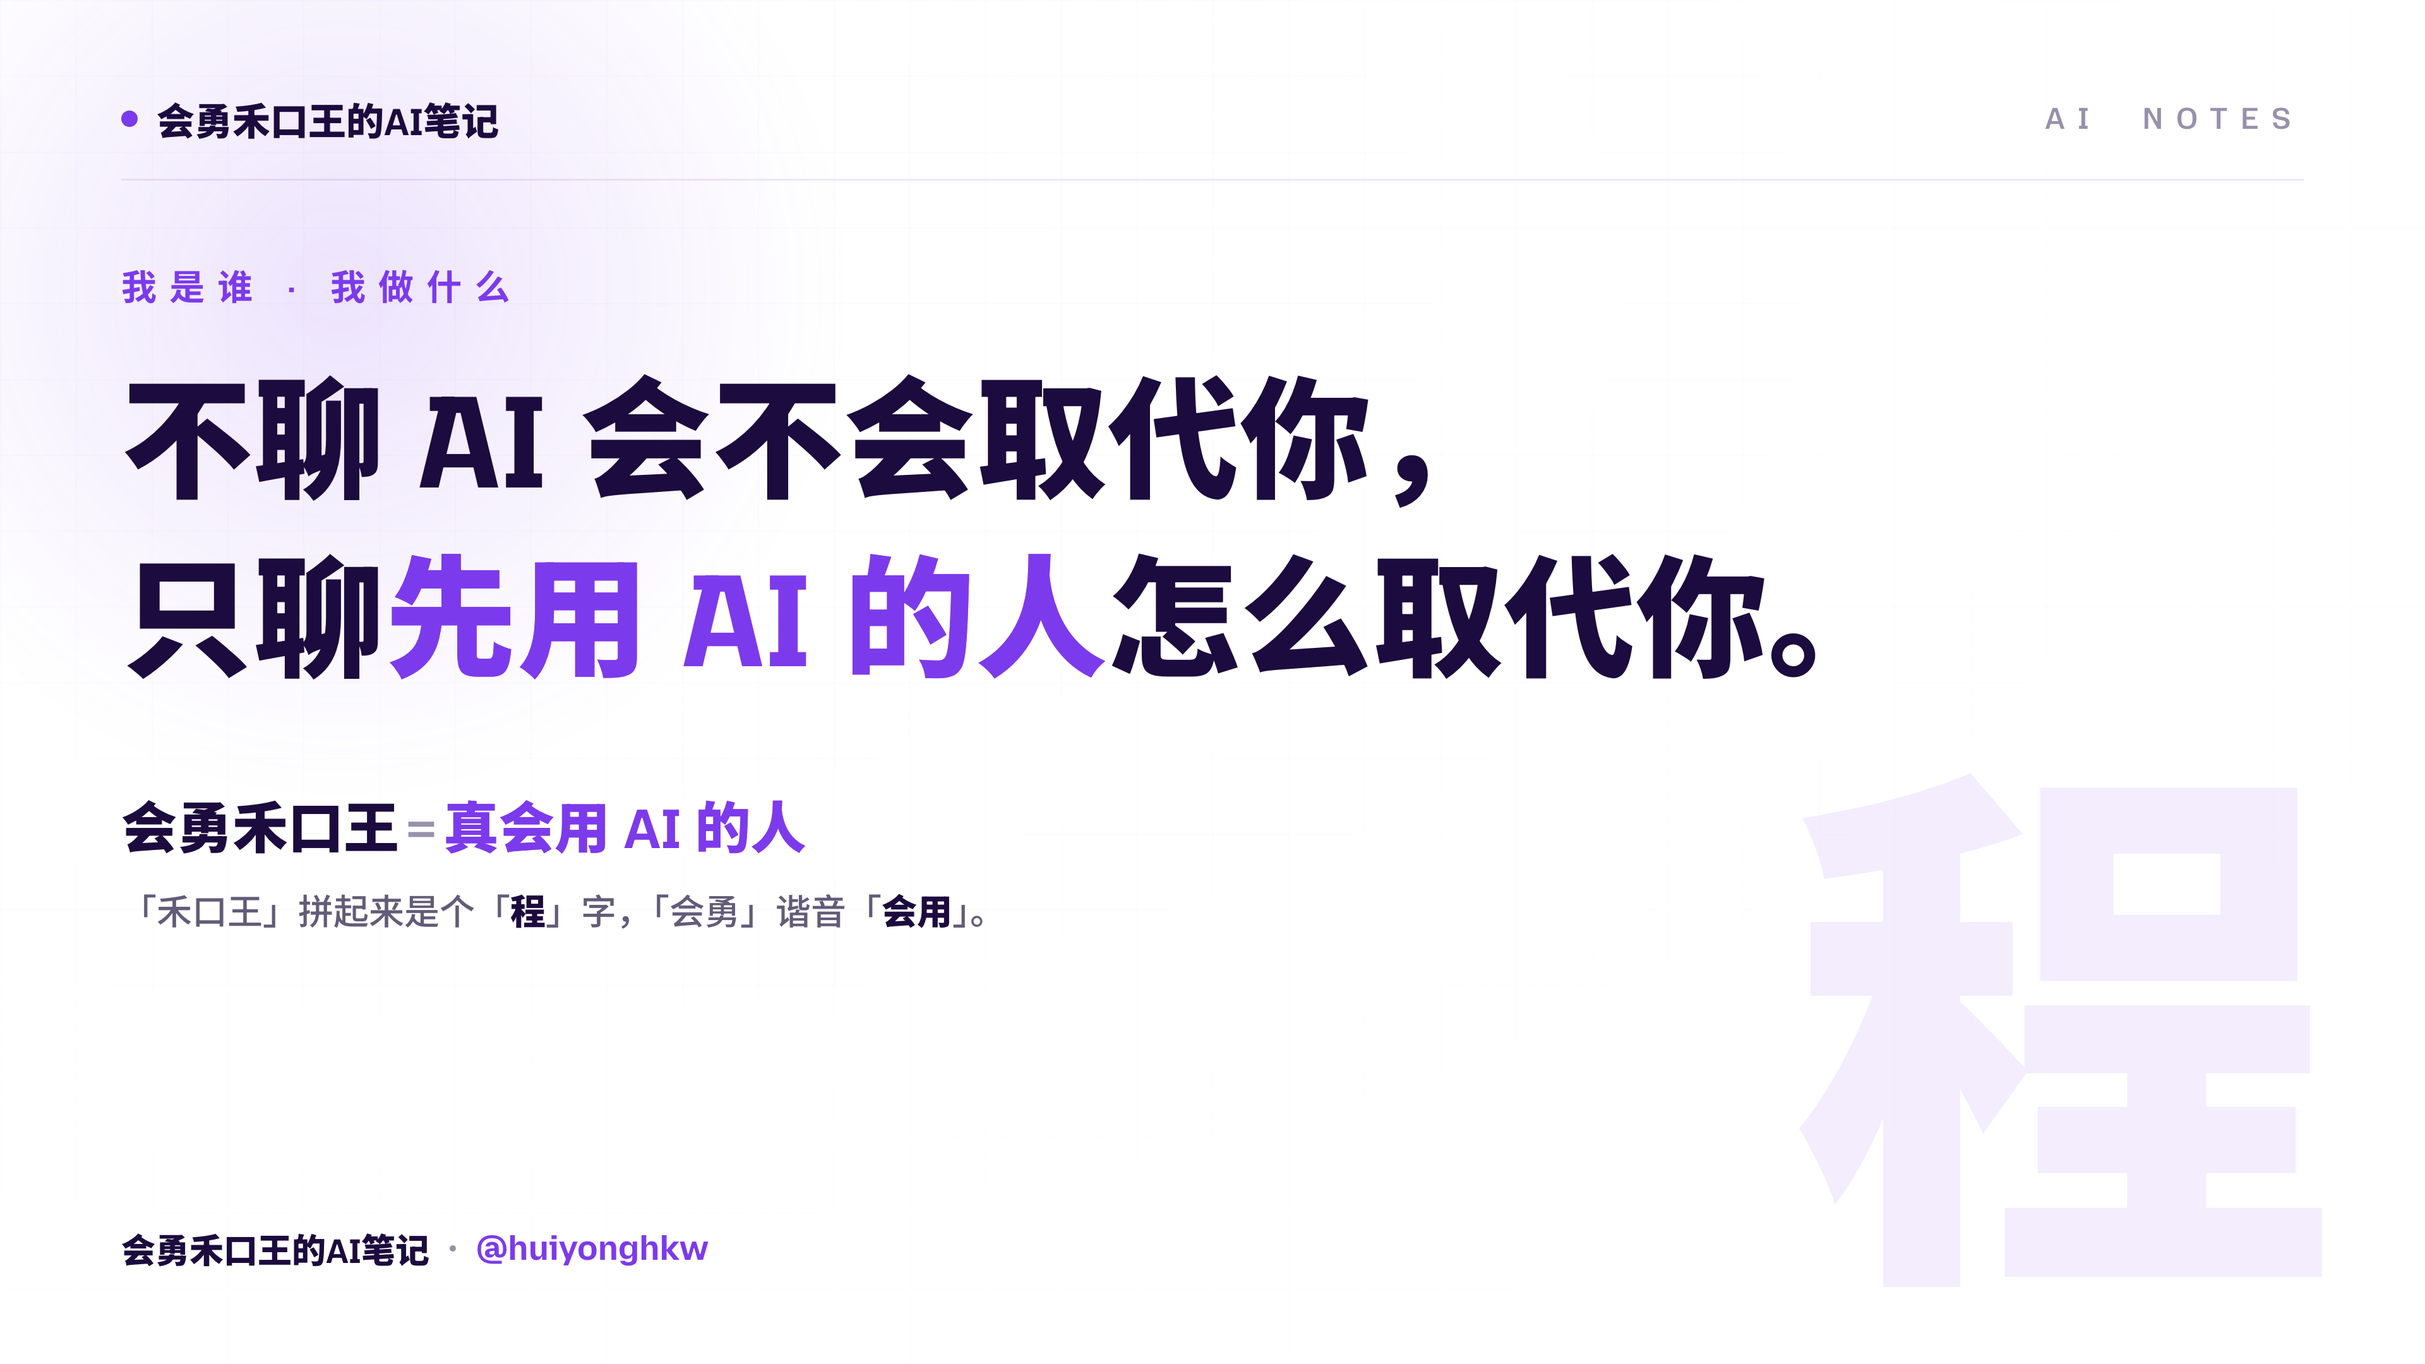
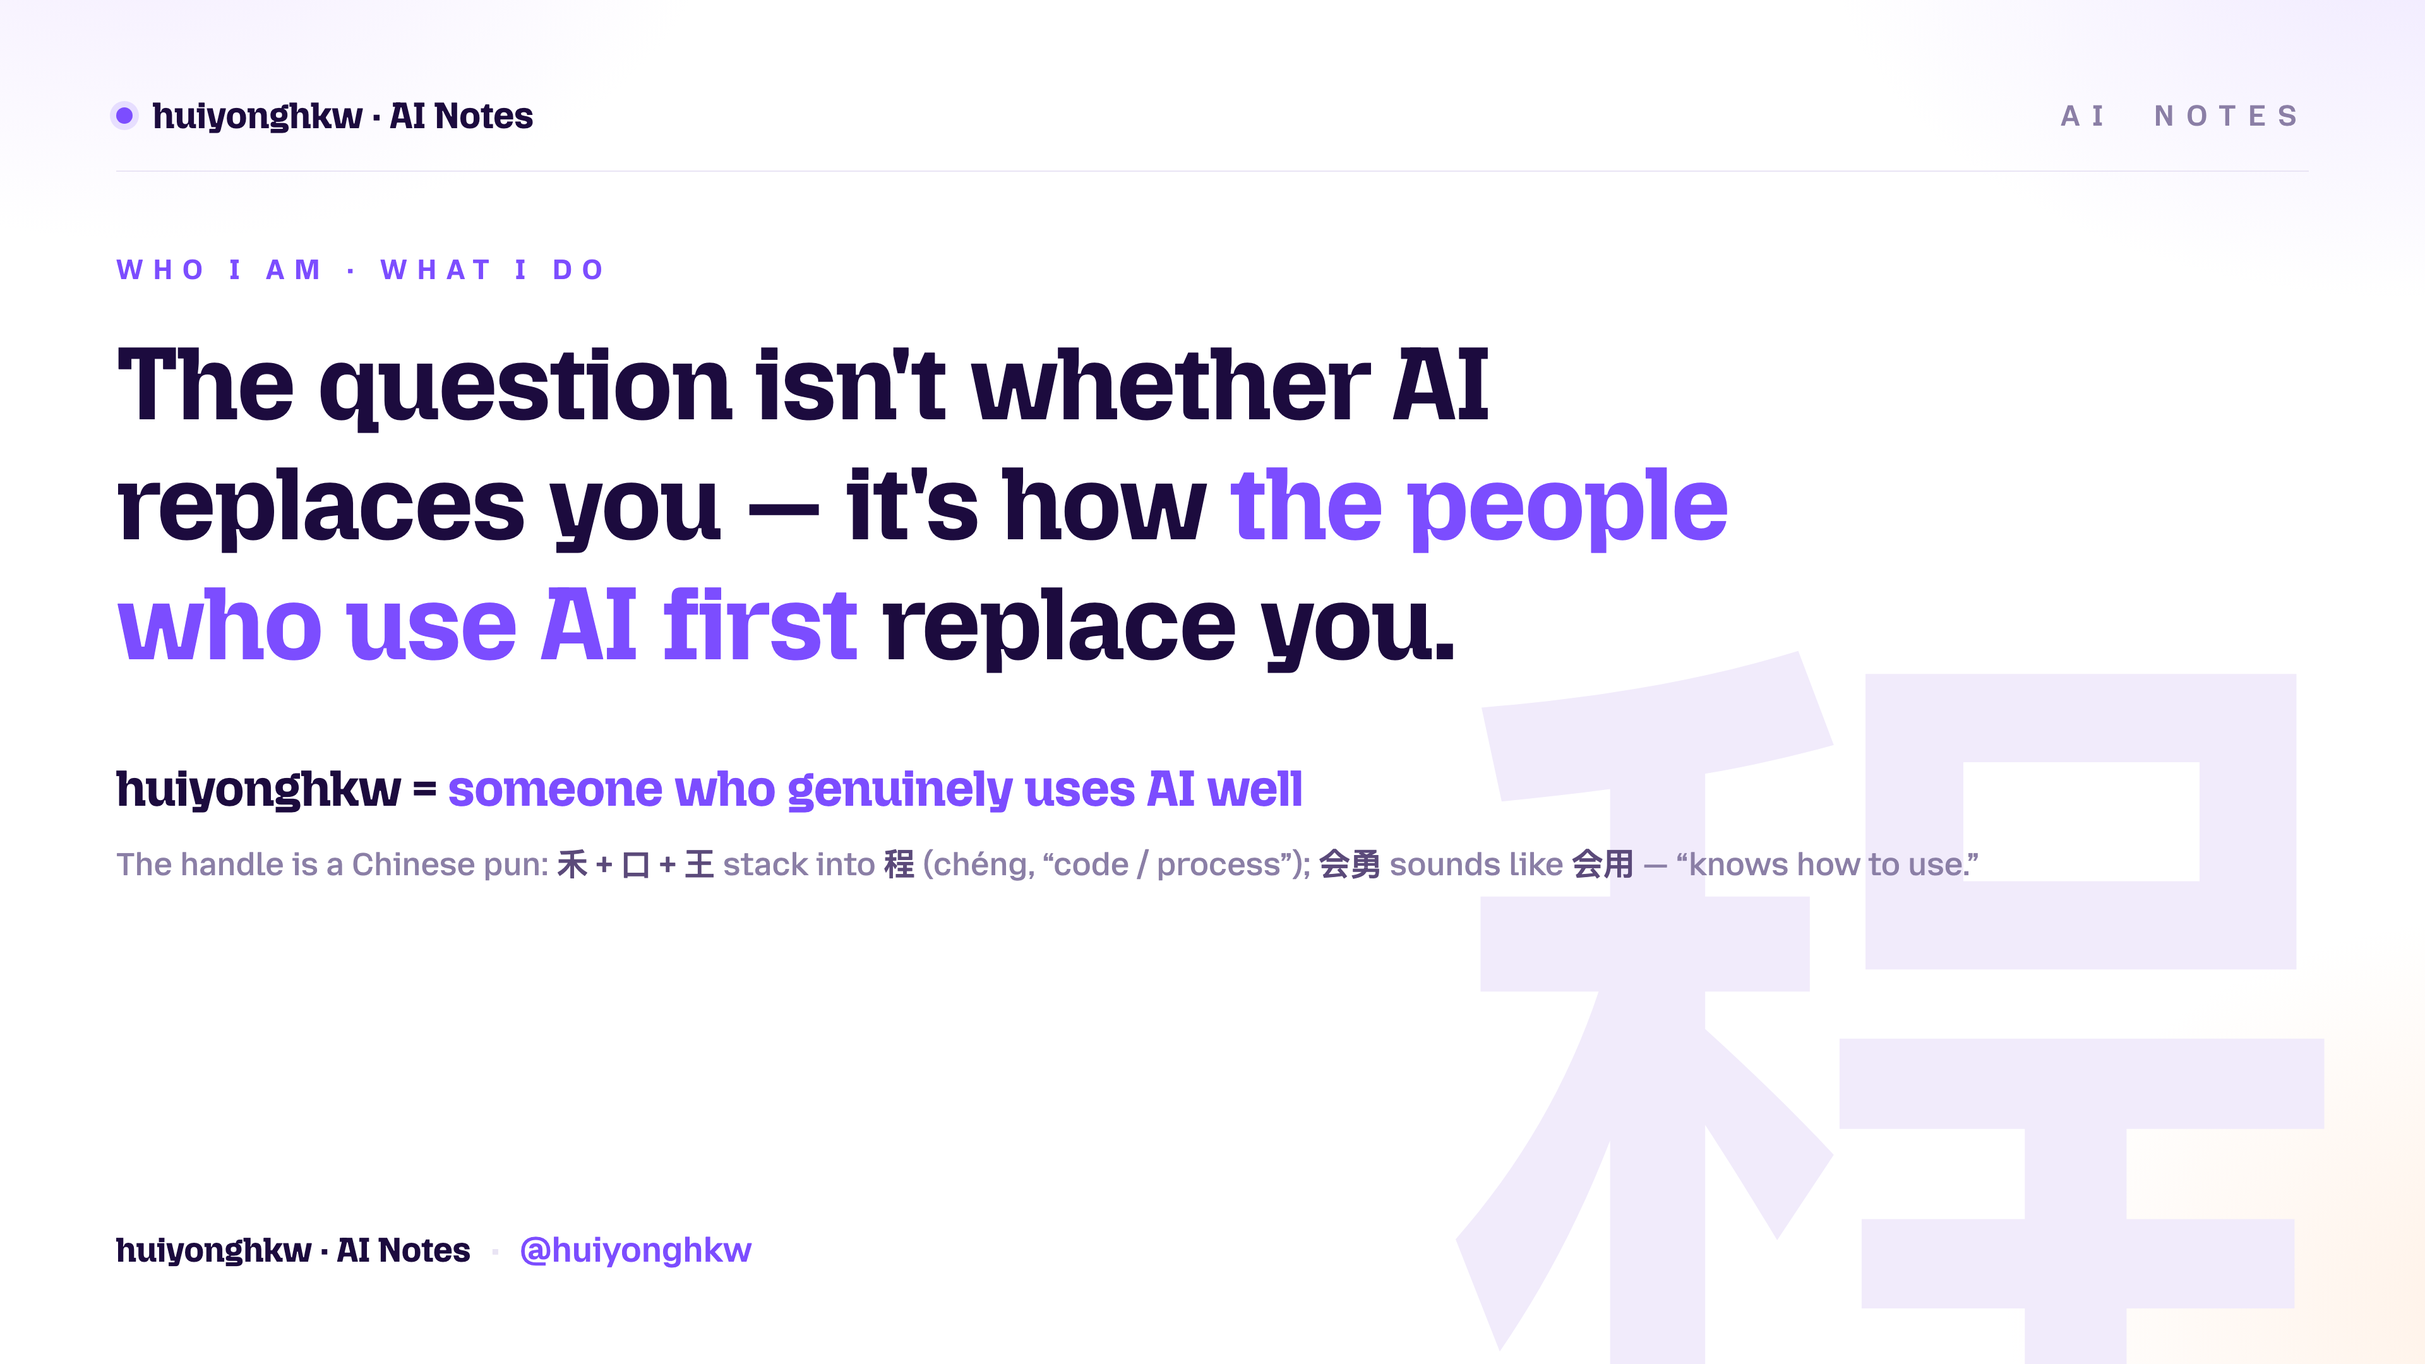
i18n(profile): 主页默认切英文，中文留 README.zh.md 备份
- README.md 换为英文版（banner-en → banner.png）
- 原中文正文备份为 README.zh.md（banner 备份为 banner.zh.png）
- 顶部加 English · 中文 语言互链

diff --git a/README.md b/README.md
@@ -1,41 +1,43 @@
+<div align="right"><sub><b>English</b> · <a href="README.zh.md">中文</a></sub></div>
+
 <div align="center">
 
-<img src="banner.png" alt="会勇禾口王的AI笔记 · 不聊 AI 会不会取代你，只聊先用 AI 的人怎么取代你" width="100%"/>
+<img src="banner.png" alt="huiyonghkw · AI Notes — The question isn't whether AI replaces you, it's how the people who use AI first replace you" width="100%"/>
 
-### 不聊 AI 会不会取代你，只聊先用 AI 的人怎么取代你。
+### The question isn't whether AI will replace you — it's how the people who use AI first will.
 
-`禾口王 → 程`　·　`会勇 → 会用`　·　**真会用 AI 的人**
+`禾口王 → 程`　·　`会勇 → 会用`　·　**someone who genuinely uses AI well**
 
-<a href="https://hekouwang.pages.dev"><img src="https://img.shields.io/badge/主题站-hekouwang.pages.dev-a855f7?style=flat-square&logo=cloudflare&logoColor=white"/></a>
-<img src="https://img.shields.io/badge/坐标-成都-6d28d9?style=flat-square&logo=googlemaps&logoColor=white"/>
+<a href="https://hekouwang.pages.dev"><img src="https://img.shields.io/badge/Homepage-hekouwang.pages.dev-a855f7?style=flat-square&logo=cloudflare&logoColor=white"/></a>
+<img src="https://img.shields.io/badge/Based%20in-Chengdu-6d28d9?style=flat-square&logo=googlemaps&logoColor=white"/>
 <img src="https://komarev.com/ghpvc/?username=huiyonghkw&color=a855f7&style=flat-square&label=Profile+Views"/>
 
 </div>
 
 ---
 
-## 🧩 关于我
+## 🧩 About me
 
-把复杂的 AI 讲明白，帮你用它创造更大的价值。做的事就三句：
+I make complicated AI make sense, and help you turn it into real value. Three things, that's it:
 
-- 💡 **讲明白** —— 复杂的 AI，拆成人话，不堆术语、不玄学
-- 🔍 **讲价值** —— 不复述新闻，带你看懂它的门道和商业价值
-- 🎁 **给得着** —— 把我沉淀的方法和 SKILL 交到你手上，让你的 AI 也能干
+- 💡 **Explain it clearly** — break dense AI down into plain talk. No jargon walls, no mysticism.
+- 🔍 **Show the value** — I don't just repeat the news. I walk you through how it actually works and where the money is.
+- 🎁 **Hand it over** — the methods and Skills I've built up go straight into your hands, so your AI gets the job done too.
 
-「禾口王」拼起来是个「程」字，「会勇」谐音「会用」——**会勇禾口王 = 真会用 AI 的人**。十余年后端老兵（`gitlab-ci-docker` 302★ · `lnmp-docker` 238★），现在全职把 AI 用成生产力，经营「会勇禾口王的AI笔记」内容工厂。
+My handle is a Chinese pun. The last three characters 「禾口王」 stack into 「程」 (*chéng*, "code / process"); 「会勇」 sounds like 「会用」 ("knows how to use") — so the name reads as **"someone who genuinely knows how to use AI."** I'm a backend veteran of 10+ years (`gitlab-ci-docker` 302★ · `lnmp-docker` 238★), now working full-time on turning AI into real productivity and running my content studio *AI Notes by huiyonghkw*.
 
-## 🧰 开源 Skills（Claude Code 拿来即用）
+## 🧰 Open-source Skills (drop-in for Claude Code)
 
-| Skill | 干什么 |
+| Skill | What it does |
 |---|---|
-| [**hekouwang-claude-md-doctor-skill**](https://github.com/huiyonghkw/hekouwang-claude-md-doctor-skill) | CLAUDE.md 体检器：把它当运行时配置打分(0–100) + 修复建议 |
-| [**hekouwang-claude-skill-doctor-skill**](https://github.com/huiyonghkw/hekouwang-claude-skill-doctor-skill) | Agent Skill 体检器：评 SKILL.md 触发/篇幅/渐进披露/安全 |
-| [**hekouwang-yandu-deck-skill**](https://github.com/huiyonghkw/hekouwang-yandu-deck-skill) | 演读 DECK：文章→一屏一镜翻页演示，自托管字体，发 Cloudflare Pages |
-| [**hekouwang-stock-data-reader-skill**](https://github.com/huiyonghkw/hekouwang-stock-data-reader-skill) | 个股公开数据速读：akshare 拉数→中立事后复盘（内置金融合规护栏） |
-| [**hekouwang-cc-prod-skill**](https://github.com/huiyonghkw/hekouwang-cc-prod-skill) | 产品介绍动画：宽屏滚动 HTML 生产 + 一键发布到阿里云 OSS |
-| [**cc-passenger-prototype-design-skill**](https://github.com/huiyonghkw/cc-passenger-prototype-design-skill) | 乘客端 UI 设计系统：OKLCH + BEM，同源同语产出页面 |
+| [**hekouwang-claude-md-doctor-skill**](https://github.com/huiyonghkw/hekouwang-claude-md-doctor-skill) | CLAUDE.md linter: scores it as runtime config (0–100) + fix suggestions |
+| [**hekouwang-claude-skill-doctor-skill**](https://github.com/huiyonghkw/hekouwang-claude-skill-doctor-skill) | Agent Skill linter: rates SKILL.md triggering / length / progressive disclosure / safety |
+| [**hekouwang-yandu-deck-skill**](https://github.com/huiyonghkw/hekouwang-yandu-deck-skill) | Yandu Deck: article → one-screen-per-scene slide deck, self-hosted fonts, ships to Cloudflare Pages |
+| [**hekouwang-stock-data-reader-skill**](https://github.com/huiyonghkw/hekouwang-stock-data-reader-skill) | Public stock-data reader: pulls data via akshare → neutral post-hoc recap (financial-compliance guardrails built in) |
+| [**hekouwang-cc-prod-skill**](https://github.com/huiyonghkw/hekouwang-cc-prod-skill) | Product-intro animations: wide-screen scroll HTML pipeline + one-click deploy to Aliyun OSS |
+| [**cc-passenger-prototype-design-skill**](https://github.com/huiyonghkw/cc-passenger-prototype-design-skill) | Passenger-app UI design system: OKLCH + BEM, pages that speak one visual language |
 
-## 🏷 工具箱
+## 🏷 Toolbox
 
 ![Claude Code](https://img.shields.io/badge/Claude_Code-a855f7?style=flat-square&logo=anthropic&logoColor=white)
 ![Python](https://img.shields.io/badge/Python-6d28d9?style=flat-square&logo=python&logoColor=white)
@@ -48,7 +50,7 @@
 ![Cloudflare Pages](https://img.shields.io/badge/Cloudflare_Pages-a855f7?style=flat-square&logo=cloudflare&logoColor=white)
 ![GitHub Actions](https://img.shields.io/badge/GitHub_Actions-6d28d9?style=flat-square&logo=githubactions&logoColor=white)
 
-## 📊 在 GitHub 上
+## 📊 On GitHub
 
 <div align="center">
 
@@ -57,27 +59,27 @@
 
 </div>
 
-### 🧬 主力语言
+### 🧬 Languages I work in
 
 ```text
-PHP          ██████████████░░░░░░░░░░  60%   后端主力 · Laravel
-Java         ███░░░░░░░░░░░░░░░░░░░░░░  14%   服务端
-Go           ██░░░░░░░░░░░░░░░░░░░░░░░  10%   云原生 · CLI
-Python       ██░░░░░░░░░░░░░░░░░░░░░░░   8%   AI · 数据 · 自动化
-JavaScript   █░░░░░░░░░░░░░░░░░░░░░░░░   5%   前端 · Vue
+PHP          ██████████████░░░░░░░░░░  60%   main backend · Laravel
+Java         ███░░░░░░░░░░░░░░░░░░░░░░  14%   server-side
+Go           ██░░░░░░░░░░░░░░░░░░░░░░░  10%   cloud-native · CLI
+Python       ██░░░░░░░░░░░░░░░░░░░░░░░   8%   AI · data · automation
+JavaScript   █░░░░░░░░░░░░░░░░░░░░░░░░   5%   frontend · Vue
 Shell        █░░░░░░░░░░░░░░░░░░░░░░░░   3%   DevOps
 ```
 
-> 按实际投入估算，非 GitHub 仓库字节统计（自动卡会被历史 PHP 仓库带偏）。
+> Estimated by actual time spent, not GitHub byte counts (the auto-widget gets skewed by old PHP repos).
 
-## 🌐 找我
+## 🌐 Find me
 
-- 🏠 主题站 / 演读 DECK：**[hekouwang.pages.dev](https://hekouwang.pages.dev)**
-- 📓 全渠道：公众号 · 小红书 · 头条 · B站 —— 搜「**会勇禾口王的AI笔记**」
+- 🏠 Homepage / Yandu Deck: **[hekouwang.pages.dev](https://hekouwang.pages.dev)**
+- 📓 Everywhere (CN platforms): WeChat · Xiaohongshu · Toutiao · Bilibili — search **「会勇禾口王的AI笔记」**
 - ✉ huiyonghkw@gmail.com
 
 <div align="center">
 
-<sub>把 AI 讲明白 · 让它为你创造更大的价值</sub>
+<sub>Making AI make sense · so it creates more value for you</sub>
 
 </div>

diff --git a/README.zh.md b/README.zh.md
@@ -1,0 +1,85 @@
+<div align="right"><sub><a href="README.md">English</a> · <b>中文</b></sub></div>
+
+<div align="center">
+
+<img src="banner.png" alt="会勇禾口王的AI笔记 · 不聊 AI 会不会取代你，只聊先用 AI 的人怎么取代你" width="100%"/>
+
+### 不聊 AI 会不会取代你，只聊先用 AI 的人怎么取代你。
+
+`禾口王 → 程`　·　`会勇 → 会用`　·　**真会用 AI 的人**
+
+<a href="https://hekouwang.pages.dev"><img src="https://img.shields.io/badge/主题站-hekouwang.pages.dev-a855f7?style=flat-square&logo=cloudflare&logoColor=white"/></a>
+<img src="https://img.shields.io/badge/坐标-成都-6d28d9?style=flat-square&logo=googlemaps&logoColor=white"/>
+<img src="https://komarev.com/ghpvc/?username=huiyonghkw&color=a855f7&style=flat-square&label=Profile+Views"/>
+
+</div>
+
+---
+
+## 🧩 关于我
+
+把复杂的 AI 讲明白，帮你用它创造更大的价值。做的事就三句：
+
+- 💡 **讲明白** —— 复杂的 AI，拆成人话，不堆术语、不玄学
+- 🔍 **讲价值** —— 不复述新闻，带你看懂它的门道和商业价值
+- 🎁 **给得着** —— 把我沉淀的方法和 SKILL 交到你手上，让你的 AI 也能干
+
+「禾口王」拼起来是个「程」字，「会勇」谐音「会用」——**会勇禾口王 = 真会用 AI 的人**。十余年后端老兵（`gitlab-ci-docker` 302★ · `lnmp-docker` 238★），现在全职把 AI 用成生产力，经营「会勇禾口王的AI笔记」内容工厂。
+
+## 🧰 开源 Skills（Claude Code 拿来即用）
+
+| Skill | 干什么 |
+|---|---|
+| [**hekouwang-claude-md-doctor-skill**](https://github.com/huiyonghkw/hekouwang-claude-md-doctor-skill) | CLAUDE.md 体检器：把它当运行时配置打分(0–100) + 修复建议 |
+| [**hekouwang-claude-skill-doctor-skill**](https://github.com/huiyonghkw/hekouwang-claude-skill-doctor-skill) | Agent Skill 体检器：评 SKILL.md 触发/篇幅/渐进披露/安全 |
+| [**hekouwang-yandu-deck-skill**](https://github.com/huiyonghkw/hekouwang-yandu-deck-skill) | 演读 DECK：文章→一屏一镜翻页演示，自托管字体，发 Cloudflare Pages |
+| [**hekouwang-stock-data-reader-skill**](https://github.com/huiyonghkw/hekouwang-stock-data-reader-skill) | 个股公开数据速读：akshare 拉数→中立事后复盘（内置金融合规护栏） |
+| [**hekouwang-cc-prod-skill**](https://github.com/huiyonghkw/hekouwang-cc-prod-skill) | 产品介绍动画：宽屏滚动 HTML 生产 + 一键发布到阿里云 OSS |
+| [**cc-passenger-prototype-design-skill**](https://github.com/huiyonghkw/cc-passenger-prototype-design-skill) | 乘客端 UI 设计系统：OKLCH + BEM，同源同语产出页面 |
+
+## 🏷 工具箱
+
+![Claude Code](https://img.shields.io/badge/Claude_Code-a855f7?style=flat-square&logo=anthropic&logoColor=white)
+![Python](https://img.shields.io/badge/Python-6d28d9?style=flat-square&logo=python&logoColor=white)
+![Java](https://img.shields.io/badge/Java-a855f7?style=flat-square&logo=openjdk&logoColor=white)
+![Go](https://img.shields.io/badge/Go-6d28d9?style=flat-square&logo=go&logoColor=white)
+![Docker](https://img.shields.io/badge/Docker-a855f7?style=flat-square&logo=docker&logoColor=white)
+![Laravel](https://img.shields.io/badge/Laravel-6d28d9?style=flat-square&logo=laravel&logoColor=white)
+![Vue.js](https://img.shields.io/badge/Vue.js-a855f7?style=flat-square&logo=vuedotjs&logoColor=white)
+![ffmpeg](https://img.shields.io/badge/ffmpeg-6d28d9?style=flat-square&logo=ffmpeg&logoColor=white)
+![Cloudflare Pages](https://img.shields.io/badge/Cloudflare_Pages-a855f7?style=flat-square&logo=cloudflare&logoColor=white)
+![GitHub Actions](https://img.shields.io/badge/GitHub_Actions-6d28d9?style=flat-square&logo=githubactions&logoColor=white)
+
+## 📊 在 GitHub 上
+
+<div align="center">
+
+<img height="165" src="https://github-readme-stats.vercel.app/api?username=huiyonghkw&show_icons=true&hide_border=true&title_color=a855f7&icon_color=a855f7&text_color=b3a5cf&bg_color=170a30"/>
+<img height="165" src="https://streak-stats.demolab.com/?user=huiyonghkw&hide_border=true&background=170a30&stroke=a855f7&ring=a855f7&fire=ff8a3d&currStreakNum=f5f0ff&currStreakLabel=a855f7&sideNums=b3a5cf&sideLabels=786a94&dates=786a94"/>
+
+</div>
+
+### 🧬 主力语言
+
+```text
+PHP          ██████████████░░░░░░░░░░  60%   后端主力 · Laravel
+Java         ███░░░░░░░░░░░░░░░░░░░░░░  14%   服务端
+Go           ██░░░░░░░░░░░░░░░░░░░░░░░  10%   云原生 · CLI
+Python       ██░░░░░░░░░░░░░░░░░░░░░░░   8%   AI · 数据 · 自动化
+JavaScript   █░░░░░░░░░░░░░░░░░░░░░░░░   5%   前端 · Vue
+Shell        █░░░░░░░░░░░░░░░░░░░░░░░░   3%   DevOps
+```
+
+> 按实际投入估算，非 GitHub 仓库字节统计（自动卡会被历史 PHP 仓库带偏）。
+
+## 🌐 找我
+
+- 🏠 主题站 / 演读 DECK：**[hekouwang.pages.dev](https://hekouwang.pages.dev)**
+- 📓 全渠道：公众号 · 小红书 · 头条 · B站 —— 搜「**会勇禾口王的AI笔记**」
+- ✉ huiyonghkw@gmail.com
+
+<div align="center">
+
+<sub>把 AI 讲明白 · 让它为你创造更大的价值</sub>
+
+</div>
